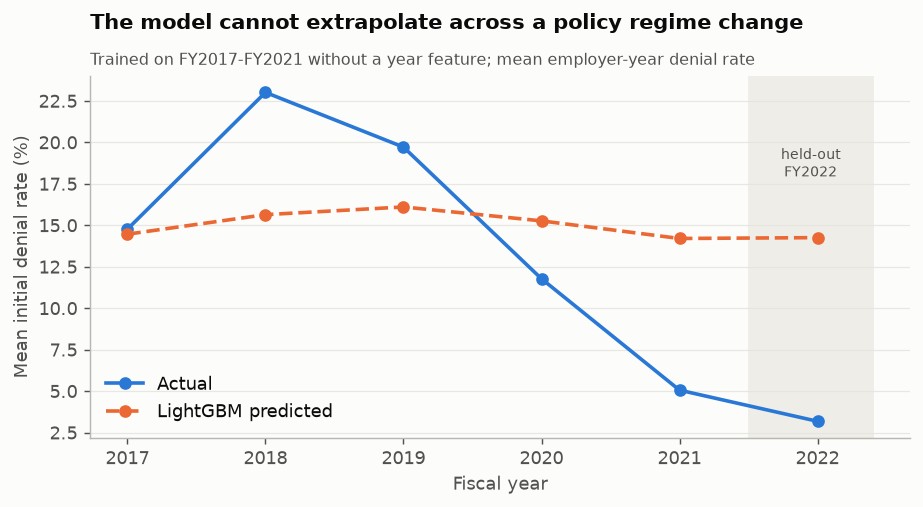
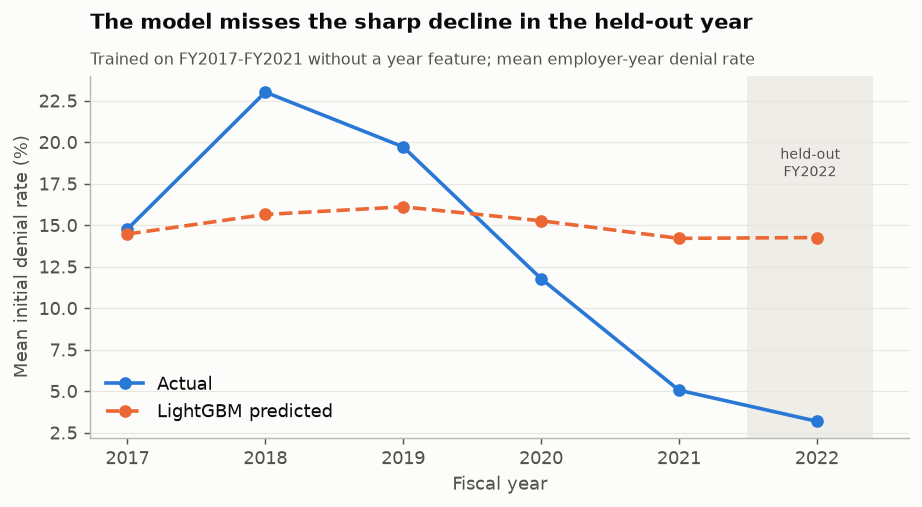
Align temporal validation claims with final paper

diff --git a/README.md b/README.md
@@ -7,9 +7,11 @@ Among initial H-1B petitions filed from FY2017 onward, how well do employer spon
 history, industry, firm size, geography, offered wage relative to the prevailing wage, and
 policy year predict a USCIS denial?
 
-**Headline finding.** Within a policy regime, denial is modestly predictable (AUC ≈ 0.80).
-Across one, it is not: a model trained on FY2017–FY2021 and tested on FY2022 posts a
-*negative* R². The binding variable is administrative guidance, not the employer.
+**Headline finding.** When training and test rows contain the same observed years, denial
+is modestly predictable (AUC ≈ 0.80). Forward prediction is much weaker: a model trained
+on FY2017–FY2021 and tested on FY2022 posts a *negative* R² because the observed denial
+rate fell far below the training period. Employer features alone do not recover that
+temporal decline.
 
 ---
 
